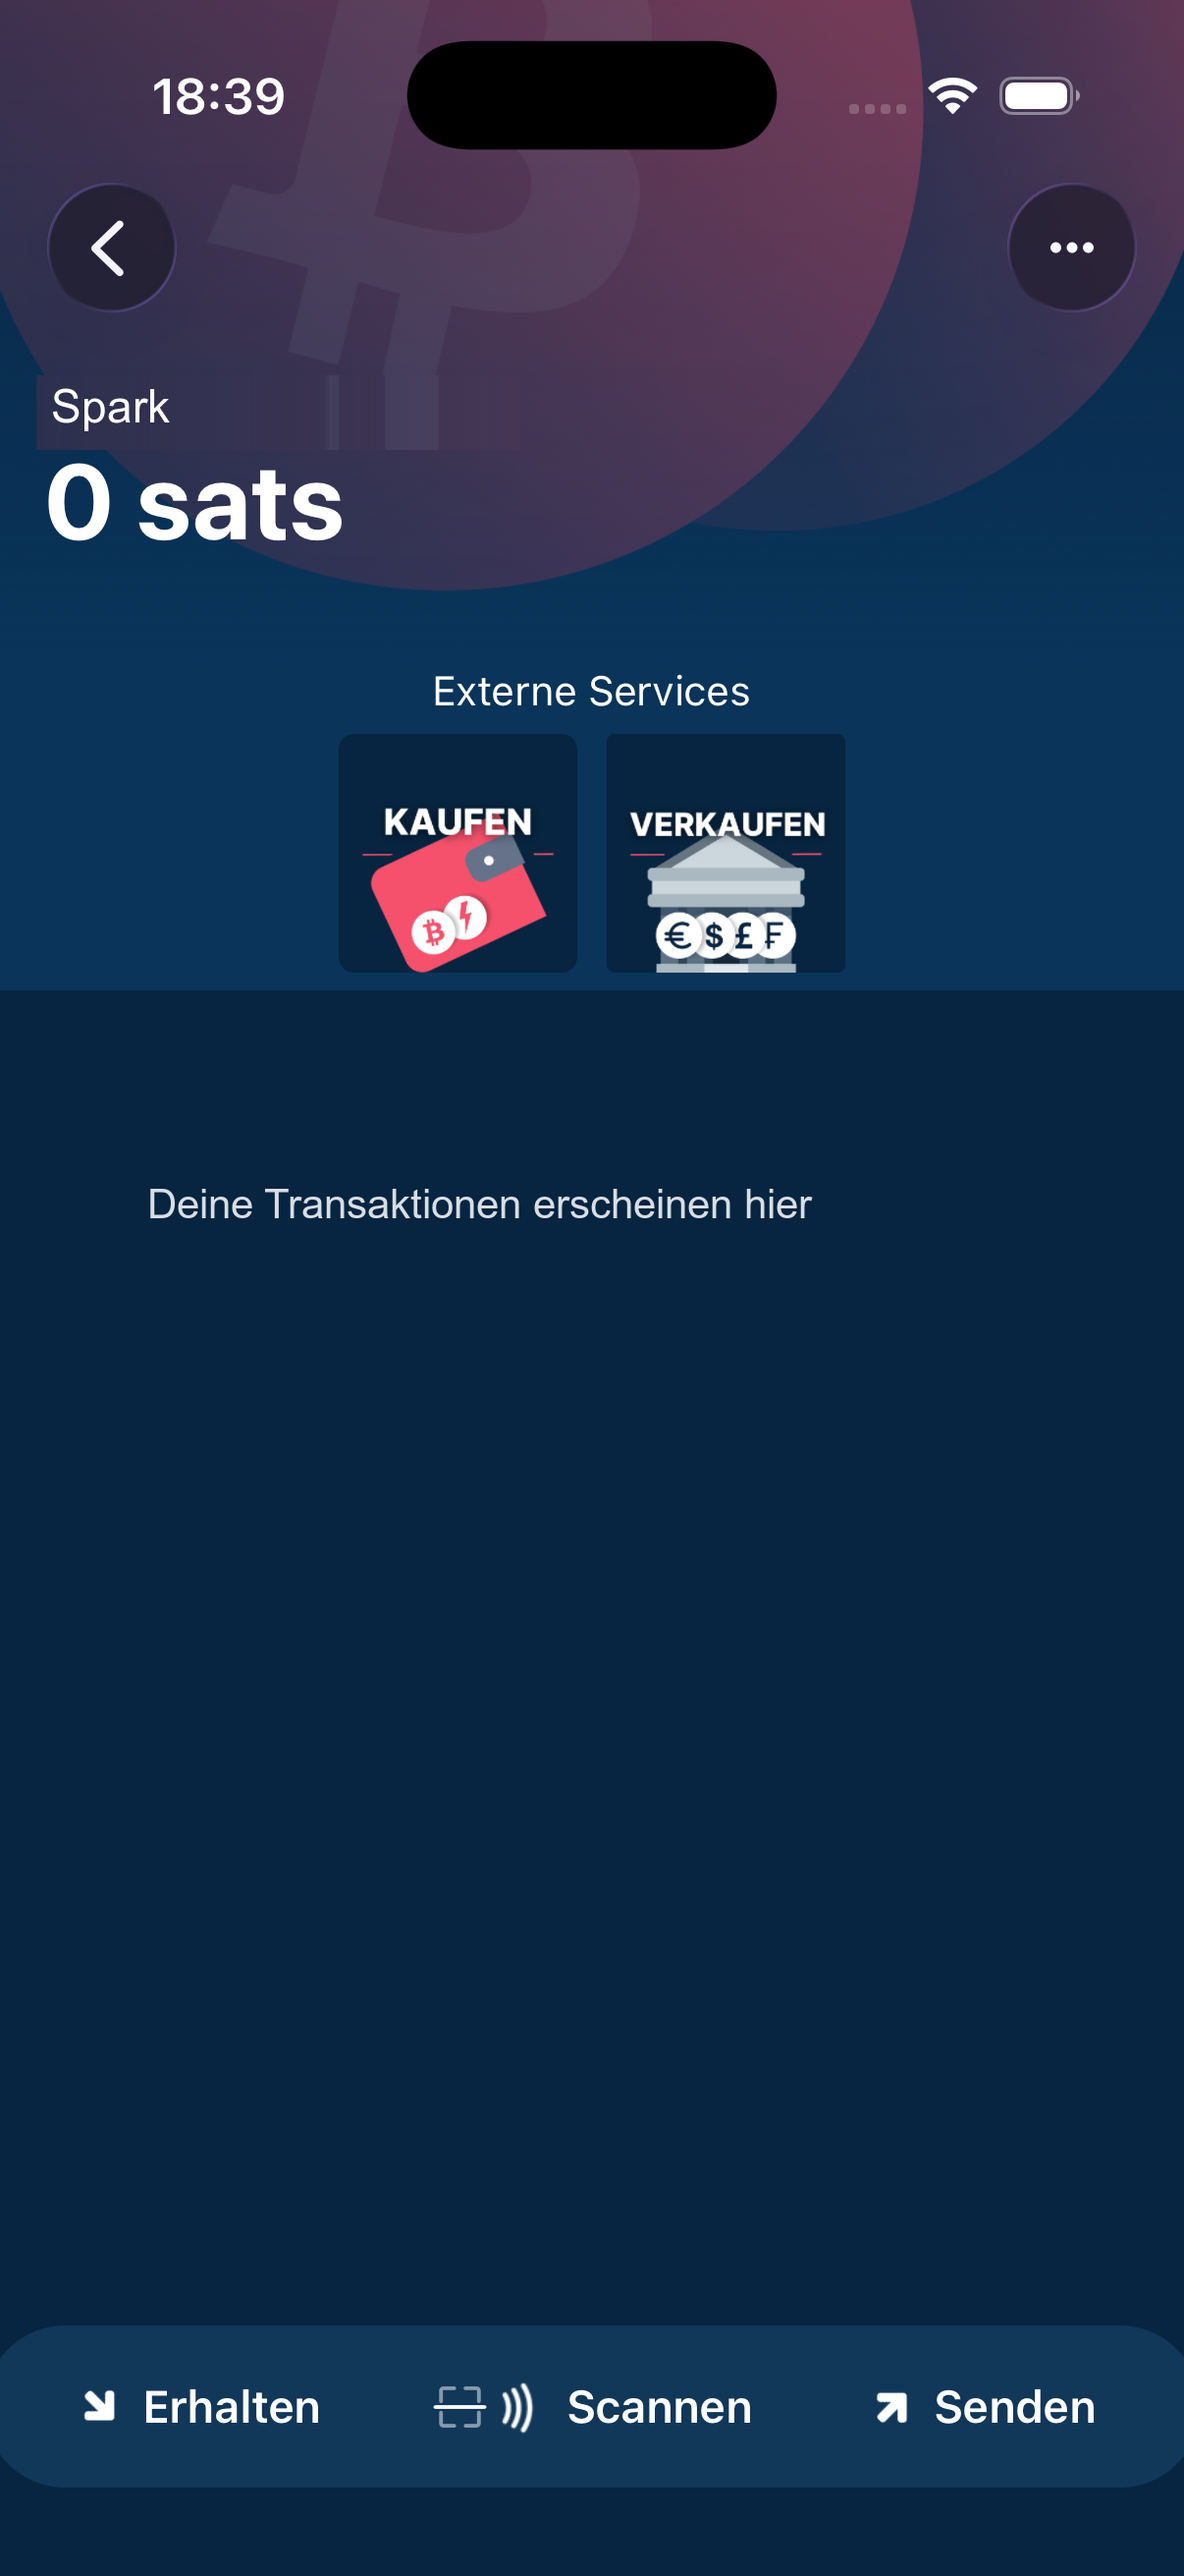
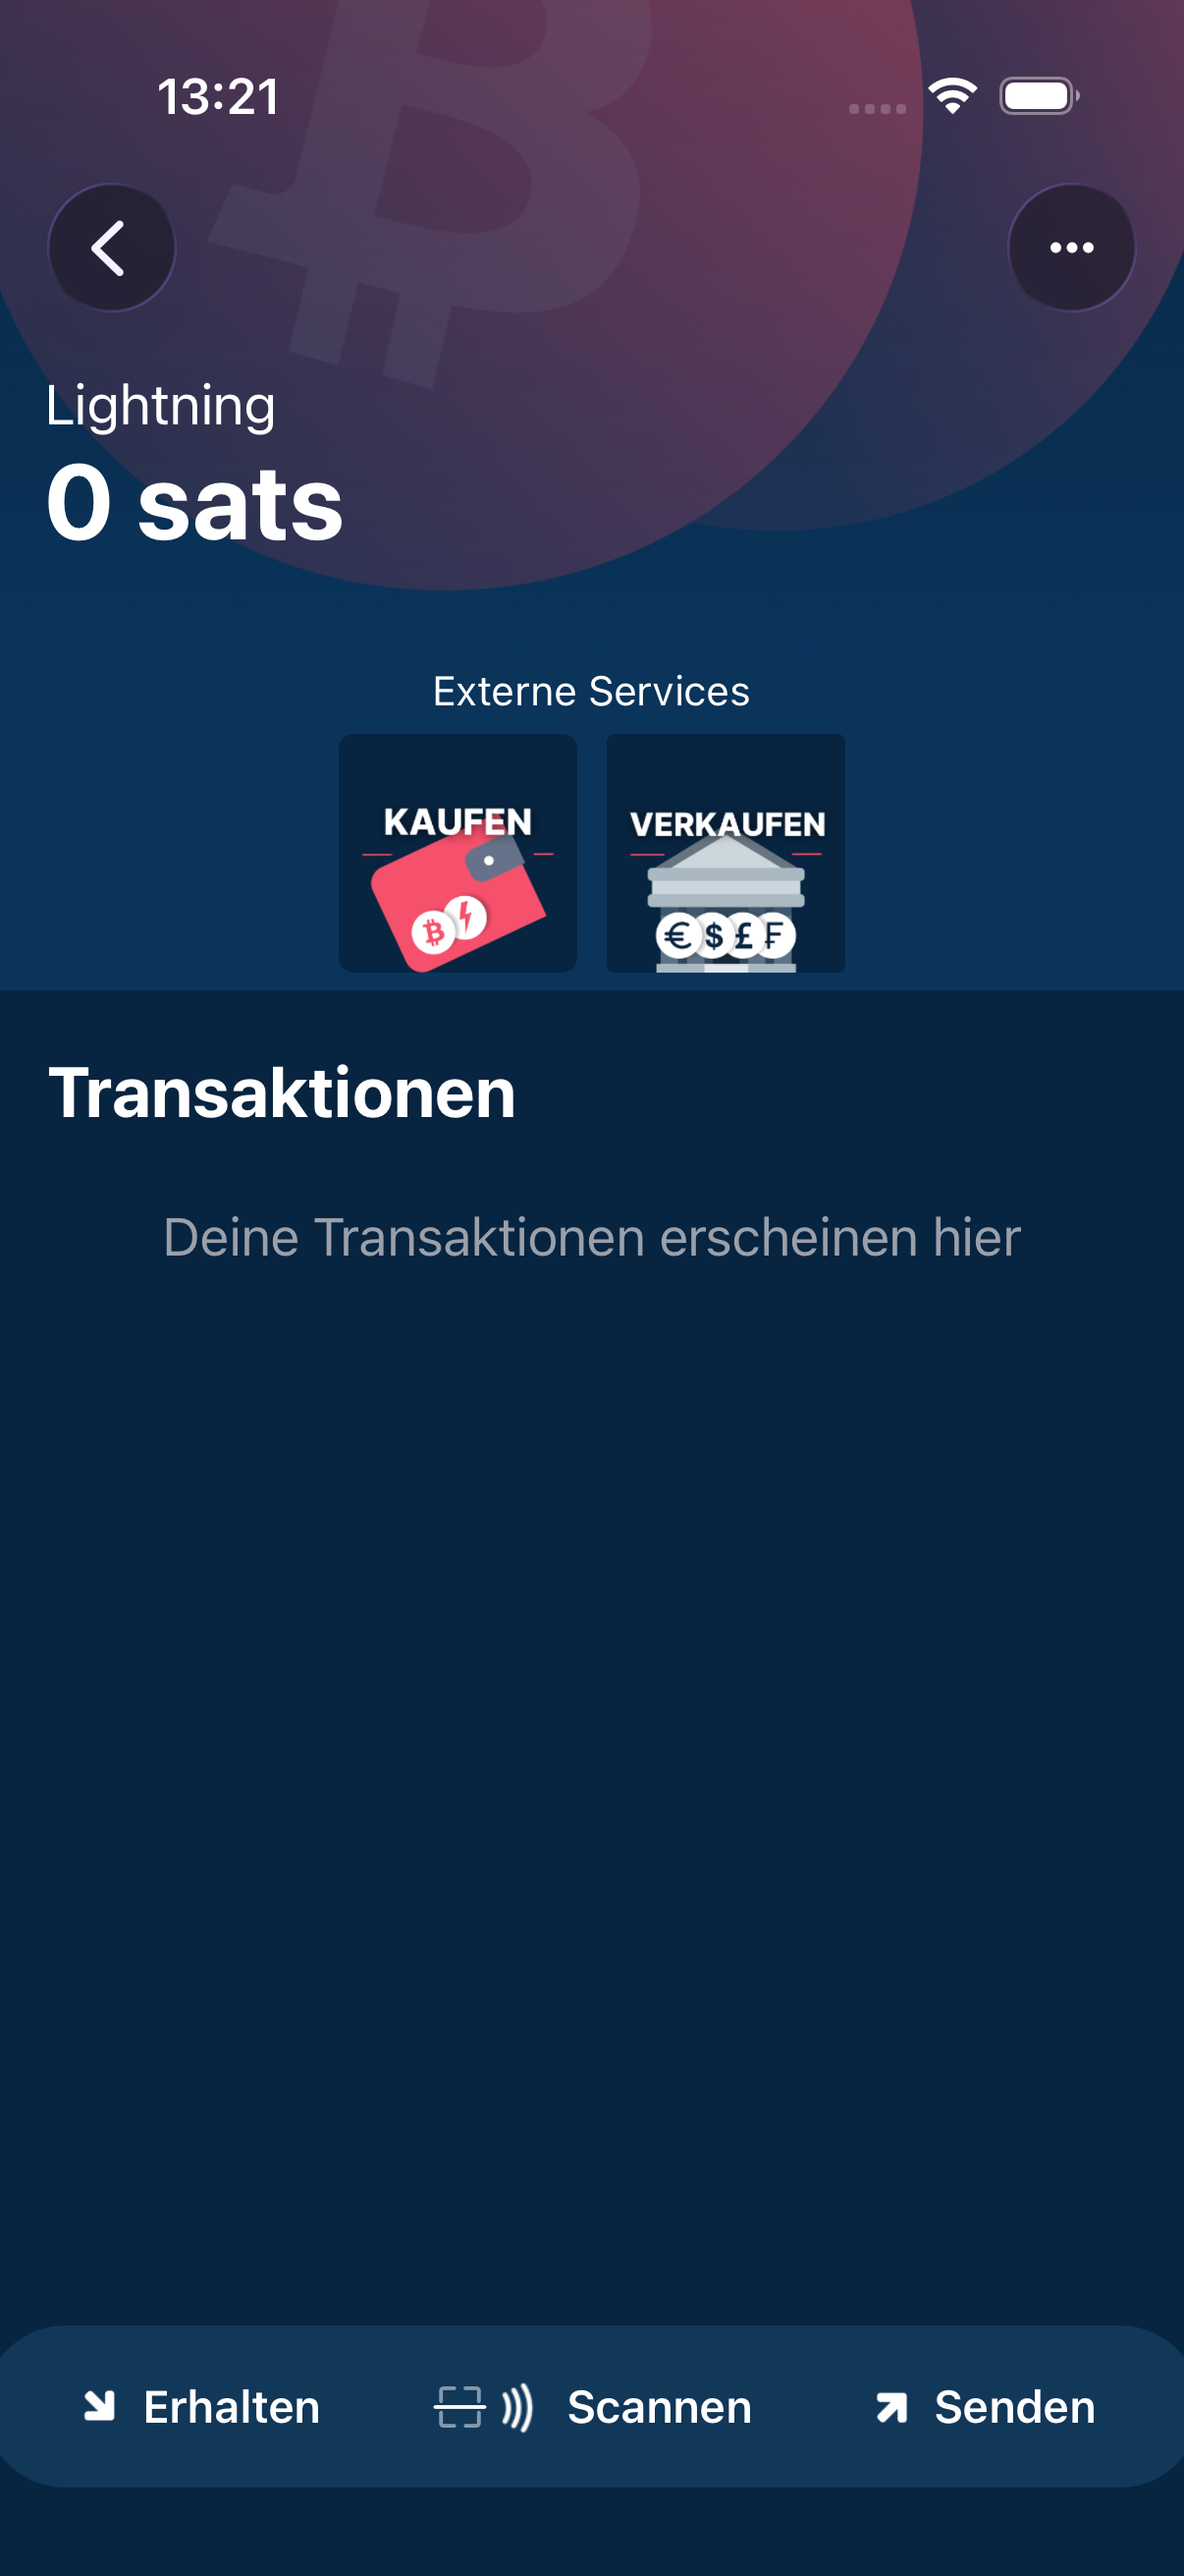
DOC: update the handbook for the Lightning wallet
Captions and chapter text in de/en/fr/it describe the Lightning row, the Lightning address and the invoice with amount. The four Spark screenshots are retaken on the iPhone 17 simulator; the screenshot flow waits for the created wallet before capturing. The content gate allows a bare Lightning address QR on the Lightning receive screenshot, like the on-chain receive screenshot.

diff --git a/tests/unit/handbook-content-gate.test.js b/tests/unit/handbook-content-gate.test.js
@@ -139,17 +139,42 @@ describe('unit - handbook content gate', () => {
       assert.match(problems[0], /pointless QR allowlist entry/);
     });
 
-    it('names the allowlisted receive screen and refuses a QR on the Spark receive screen', function () {
+    it('names both allowlisted receive screens', function () {
       const src = require('fs').readFileSync(path.resolve(__dirname, '../../scripts/handbook/content-gate.js'), 'utf8');
       const header = src.slice(0, src.indexOf('const fs = require'));
       assert.match(header, /04-empfangen-senden\/01-erhalten\.png/);
       assert.match(header, /08-lightning\/03-rechnung-erstellen\.png/);
-      assert.match(header, /must not carry a QR/);
-      assert.doesNotMatch(header, /Only the receive-address screen may carry one/);
-      assert.ok(!Object.prototype.hasOwnProperty.call(gate.QR_ALLOWLIST, 'screenshots/08-lightning/03-rechnung-erstellen.png'));
+      assert.deepStrictEqual(Object.keys(gate.QR_ALLOWLIST).sort(), [
+        'screenshots/04-empfangen-senden/01-erhalten.png',
+        'screenshots/08-lightning/03-rechnung-erstellen.png',
+      ]);
     });
 
-    it('rejects a bolt11 invoice on the Spark receive screenshot', function () {
+    it('accepts only a bare Lightning address on the Lightning receive screenshot', function () {
+      const receive = 'screenshots/04-empfangen-senden/01-erhalten.png';
+      const lightningShot = 'screenshots/08-lightning/03-rechnung-erstellen.png';
+      const address = 'bc1qw508d6qejxtdg4y5r3zarvary0c5xw7kv8f3t4';
+      const published = new Set([receive, lightningShot]);
+      const scan = payload =>
+        gate.qrProblems(
+          new Map([
+            [receive, address],
+            [lightningShot, payload],
+          ]),
+          published,
+          gate.QR_ALLOWLIST,
+        );
+
+      assert.deepStrictEqual(scan('0123456789abcdef@breez.tips'), []);
+      assert.deepStrictEqual(scan('0123456789abcdef@lightning.space'), []);
+      for (const payload of ['0123456789abcdef@evil.example', 'lightning:0123456789abcdef@breez.tips', address]) {
+        const problems = scan(payload);
+        assert.strictEqual(problems.length, 1, payload);
+        assert.match(problems[0], /does not match what the allowlist permits/);
+      }
+    });
+
+    it('rejects a bolt11 invoice on the Lightning receive screenshot', function () {
       const receive = 'screenshots/04-empfangen-senden/01-erhalten.png';
       const invoiceShot = 'screenshots/08-lightning/03-rechnung-erstellen.png';
       const address = 'bc1qw508d6qejxtdg4y5r3zarvary0c5xw7kv8f3t4';
@@ -166,7 +191,7 @@ describe('unit - handbook content gate', () => {
         gate.QR_ALLOWLIST,
       );
       assert.strictEqual(problems.length, 1);
-      assert.match(problems[0], /non-allowlisted image/);
+      assert.match(problems[0], /does not match what the allowlist permits/);
       assert.match(problems[0], /08-lightning\/03-rechnung-erstellen\.png/);
       assert.ok(!problems[0].includes(invoice), 'the payload must not be echoed');
     });
@@ -382,8 +407,7 @@ describe('unit - handbook content gate', () => {
     const SCRIPT = path.resolve(__dirname, '../../scripts/handbook/content-gate.js');
     const ALLOWED = Object.keys(gate.QR_ALLOWLIST);
     const ADDRESS = 'bitcoin:bc1qw508d6qejxtdg4y5r3zarvary0c5xw7kv8f3t4';
-    const INVOICE =
[1 lines of base64/hex data omitted]
+    const LN_ADDRESS = '0123456789abcdef@breez.tips';
 
     let tmp;
 
@@ -407,7 +431,7 @@ describe('unit - handbook content gate', () => {
         bin,
         'zbarimg',
         qrBody ||
-          `case "$*" in *--version*) echo "zbarimg 0.23";; *01-erhalten.png*) echo '${ADDRESS}';; *03-rechnung-erstellen.png*) echo '${INVOICE}';; *) exit 4;; esac`,
+          `case "$*" in *--version*) echo "zbarimg 0.23";; *01-erhalten.png*) echo '${ADDRESS}';; *03-rechnung-erstellen.png*) echo '${LN_ADDRESS}';; *) exit 4;; esac`,
       );
       stub(
         bin,
@@ -440,7 +464,7 @@ describe('unit - handbook content gate', () => {
     it('exits 0 on a clean payload', function () {
       const r = runScript(fixture());
       assert.strictEqual(r.status, 0, `${r.stdout}\n${r.stderr}`);
-      assert.match(r.stdout, /scanned 2 published PNGs/);
+      assert.match(r.stdout, /scanned 3 published PNGs/);
     });
 
     it('exits non-zero when an image ships without being declared', function () {
@@ -454,7 +478,7 @@ describe('unit - handbook content gate', () => {
       // passed those as clean, and nothing but this catch holds the difference.
       const r = runScript(
         fixture({
-          qrBody: `case "$*" in *--version*) echo "zbarimg 0.23";; *plain.png*) exit 1;; *01-erhalten.png*) echo '${ADDRESS}';; *03-rechnung-erstellen.png*) echo '${INVOICE}';; *) exit 4;; esac`,
+          qrBody: `case "$*" in *--version*) echo "zbarimg 0.23";; *plain.png*) exit 1;; *01-erhalten.png*) echo '${ADDRESS}';; *03-rechnung-erstellen.png*) echo '${LN_ADDRESS}';; *) exit 4;; esac`,
         }),
       );
       assert.notStrictEqual(r.status, 0, r.stdout);

diff --git a/scripts/handbook/content-gate.js b/scripts/handbook/content-gate.js
@@ -30,11 +30,12 @@
  * Three checks run over that set, plus one check on the checking:
  *
  *   QR — a decodable QR in a screenshot is an address, a payment request or,
- *   worst case, an encoded seed. Exactly one screen may carry one: the on-chain
+ *   worst case, an encoded seed. Exactly two screens may carry one, each only
+ *   with a bare receive address of the unfunded handbook wallet: the on-chain
  *   receive screen (`screenshots/04-empfangen-senden/01-erhalten.png`, a Bitcoin
- *   receive address). The Spark receive screen
- *   (`screenshots/08-lightning/03-rechnung-erstellen.png`) must not carry a QR.
- *   The stored picture shows no address, so nothing payable is published.
+ *   address) and the Lightning receive screen
+ *   (`screenshots/08-lightning/03-rechnung-erstellen.png`, a Lightning address).
+ *   An invoice or any other payload on either screen fails.
  *
  *   Seed phrase — a QR gate is blind to the higher risk: a recovery phrase
  *   printed as plain text on a backup screen. OCR every image and look for a
@@ -82,6 +83,14 @@ const QR_ALLOWLIST = {
     // allowing it would make this a path-only allowlist again. Re-take the
     // screenshot without an amount, or widen this with a shape for the
     // parameters, not with `.*`.
+  },
+  'screenshots/08-lightning/03-rechnung-erstellen.png': {
+    // Same rule for the Lightning receive screen: only the wallet's registered
+    // Lightning address (16 hex name, Breez or lightning.space domain). An
+    // amount turns the screen into a BOLT11 invoice, which fails here on
+    // purpose — its description is free text.
+    payload: /^[0-9a-f]{16}@(breez\.tips|lightning\.space)$/,
+    reason: 'receive screen — the QR is the subject of the screenshot',
   },
 };
 

diff --git a/docs/handbook/README.md b/docs/handbook/README.md
@@ -294,7 +294,7 @@ iOS-Simulator-Lauf, nicht aus einer CI-Visual-Regression. Die verwendeten
 Maestro-Flows liegen unter `scripts/handbook/screenshots/` und sind damit
 nachvollziehbar und wiederholbar.
 
-Fuer die Lightning-(Spark)-Wallet muss der Build einen privaten `ENVFILE`-Overlay
+Fuer die Lightning-Wallet (Spark) muss der Build einen privaten `ENVFILE`-Overlay
 erhalten. Der Overlay wird aus `.env.prd` in einem eigenen, nur fuer den
 aktuellen Benutzer lesbaren Temp-Verzeichnis erstellt; der Breez-Schluessel wird
 weder in eine getrackte Datei geschrieben noch ausgegeben. Das entspricht dem
@@ -369,8 +369,8 @@ haelt diese Zuordnung mit; sonst ist die Wiederholbarkeit nur behauptet.
 
 `_setup.yaml` ist der gemeinsame Vorlauf fuer die meisten Flows: frischer
 App-Start, Wallet anlegen und den Mitteilungs-Dialog einmal abraeumen. Die
-Wallet-Anlage fuehrt direkt auf die Uebersicht — die Spark-Wallet ist opt-in
-und wird ueber „Hinzufuegen" in der Spark-Zeile angelegt. Den Einstieg
+Wallet-Anlage fuehrt direkt auf die Uebersicht — die Lightning-Wallet ist opt-in
+und wird ueber „Hinzufuegen" in der Lightning-Zeile angelegt. Den Einstieg
 zeigt `06b-wallet-lightning.yaml`, das Ergebnis `08b-lightning-spark.yaml`.
 Zwei Flows starten selbst mit `launchApp: clearState` und ohne `_setup.yaml`:
 `01-onboarding.yaml` und `16-import.yaml` (sie brauchen den frischen
@@ -411,10 +411,11 @@ Voraussetzung: `zbarimg` (zbar-tools) und `tesseract` auf dem PATH sowie
 `marked` und `bip39` unter `_handbook-deps/` — beide in EINEM `npm install`,
 sonst raeumt der zweite Aufruf den ersten weg.
 
-Erlaubt ist genau ein Treffer: die On-Chain-Empfangsadresse in
-`04-empfangen-senden/01-erhalten.png`. Der Spark-Empfang
-`08-lightning/03-rechnung-erstellen.png` darf keinen QR enthalten. Jeder weitere
-Treffer ist ein Fund.
+Erlaubt sind genau zwei Treffer, beide die blanke Empfangsadresse der leeren
+Handbuch-Wallet: die On-Chain-Adresse in `04-empfangen-senden/01-erhalten.png`
+und die Lightning-Adresse in `08-lightning/03-rechnung-erstellen.png`. Eine
+Rechnung oder jeder andere Inhalt auf diesen Bildern und jeder weitere Treffer
+ist ein Fund.
 
 Zusaetzlich geschwaerzt, weil sie Anmeldematerial bzw. dauerhaft gueltige
 Schluessel zeigen: das Feld „DFX-Adressen-Besitznachweis" in
@@ -492,13 +493,13 @@ ab), ein echtes Geraet mit NFC und eine Boltcard (Ursache 2), drei Geraete
 Die Zaehlung oben geht ueber Routen. Zwei **Varianten** von Screens, die im Satz
 sind, fehlen aus Gruenden, die keine der drei Ursachen trifft:
 
-Der Spark-Empfang zeigt eine Spark-Adresse und keinen Betrag. Eine echte
-Adresse darf hier nicht stehen. Das Bild deckt Adresse und Code ab; die
-Bildunterschrift zu `08-lightning/03-rechnung-erstellen` sagt das. Die
-Redaktionspruefung lehnt einen QR auf diesem Bild ab.
+Der Lightning-Empfang mit Betrag und Beschreibung, also mit einer
+Lightning-Rechnung, fehlt als Aufnahme. Die Redaktionspruefung laesst auf
+`08-lightning/03-rechnung-erstellen.png` nur die blanke Lightning-Adresse zu,
+weil die Beschreibung einer Rechnung freier Text ist.
 
-Die Wallet-Einstellungen einer Spark-Wallet fehlen als Aufnahme, nicht mehr als
-Weg: Der Eintrag „Spark" in den Einstellungen fuehrt seit `3e799f57f` auch fuer
+Die Wallet-Einstellungen einer Lightning-Wallet fehlen als Aufnahme, nicht mehr als
+Weg: Der Eintrag „Lightning" in den Einstellungen fuehrt seit `3e799f57f` auch fuer
 diesen Wallet-Typ nach `WalletDetails` — der Screen kennt Spark und bietet dort
 auch das Loeschen an. Was hier fehlt, ist allein das Bild dazu; #269 ist
 geschlossen.
